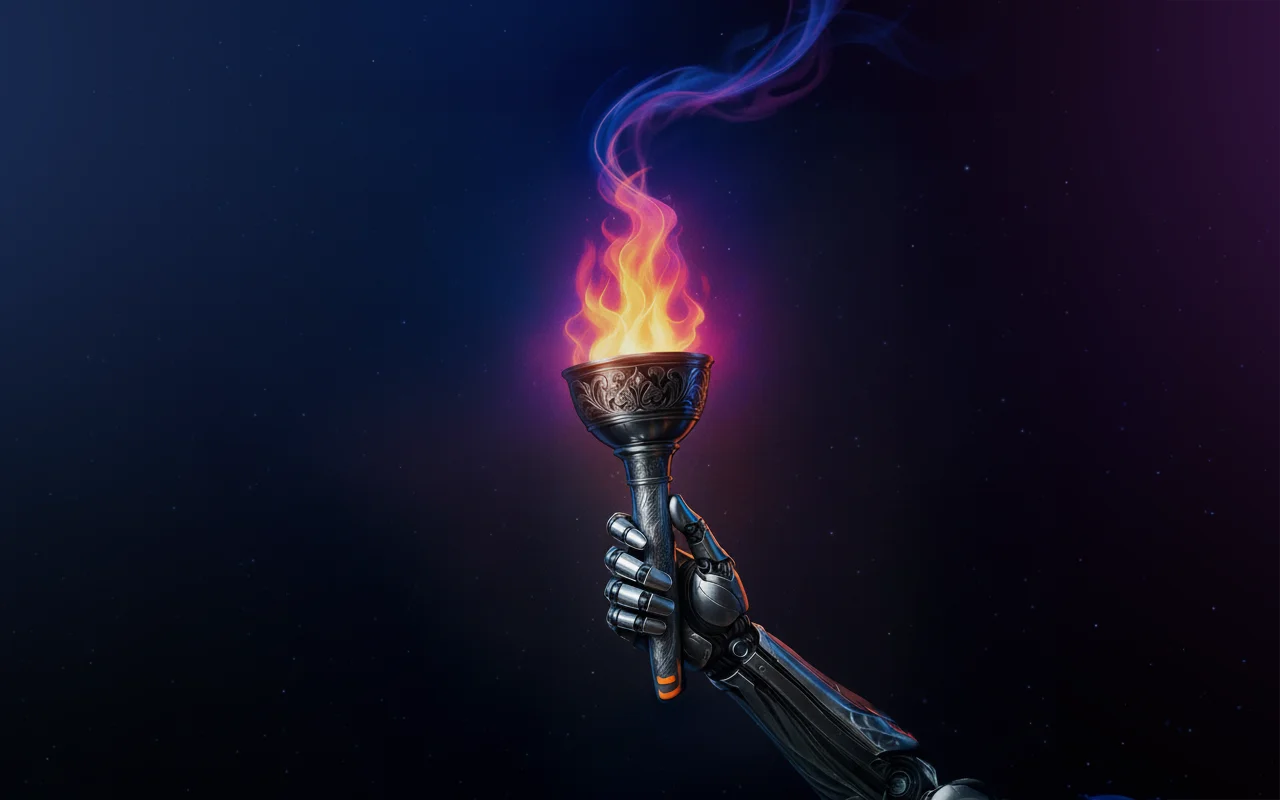
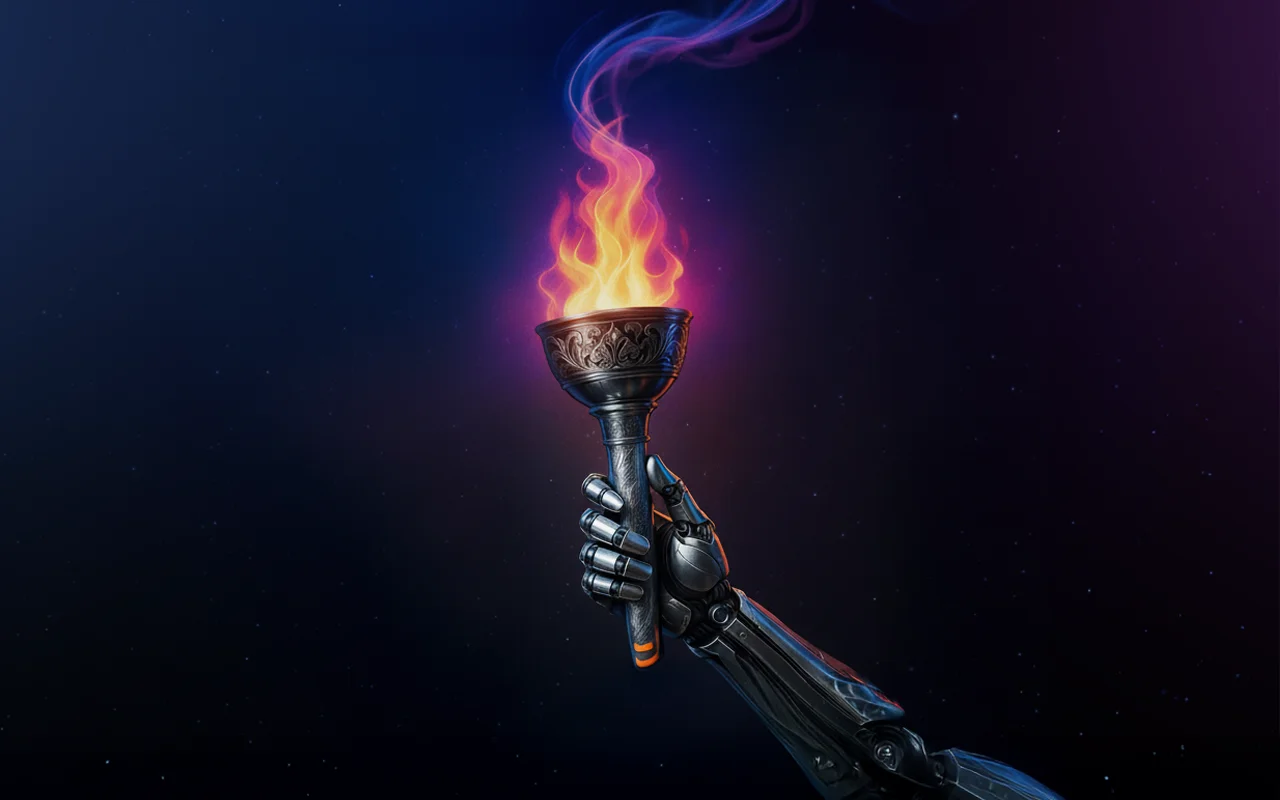
fix(ui): hero image pos; prevent '#' nav clicks
- Adjust homepage hero image on large screens using Tailwind responsive classes and object position to avoid cropping and ensure correct layering\n- Prevent header menu navigation when items use placeholder href '#' on desktop; on mobile, also close the sheet and block default click; keep emitAboutReset/handleNavigate for real routes only\n- Update hero image asset and remove unused screenshots (logo-gap-1.png, logo-gap-2.png)\n\nQuality:\n- Verified TypeScript: tsc --noEmit passes\n- Lint checks pass

Changed region(s): [[0.375, 0.0, 0.875, 1.0]]

diff --git a/src/components/layout/header/header-menu.tsx b/src/components/layout/header/header-menu.tsx
@@ -80,7 +80,13 @@ export const DesktopMenu = ({ items }: { items: HeaderMenuItem[] }) => {
               >
                 <Link
                   href={item.href}
-                  onClick={() => emitAboutReset(item.href)}
+                  onClick={(e) => {
+                    if (item.href === "#") {
+                      e.preventDefault()
+                      return
+                    }
+                    emitAboutReset(item.href)
+                  }}
                   className="text-sm"
                 >
                   {item.label}
@@ -232,7 +238,14 @@ export const MobileMenu = ({
                     >
                       <Link
                         href={item.href}
-                        onClick={() => handleNavigate(item.href)}
+                        onClick={(e) => {
+                          if (item.href === "#") {
+                            e.preventDefault()
+                            setOpen(false)
+                            return
+                          }
+                          handleNavigate(item.href)
+                        }}
                       >
                         {item.label}
                       </Link>

diff --git a/src/app/page.tsx b/src/app/page.tsx
@@ -35,7 +35,7 @@ export default function HomePage() {
         alt="Background"
         width={1280}
         height={800}
-        className="hidden lg:block absolute top-0 left-0 w-full h-auto -z-10 object-cover"
+        className="hidden lg:block lg:absolute lg:left-0 lg:w-full lg:h-full lg:-z-10 lg:top-0 lg:object-cover lg:object-[50%_-80px]"
         priority
       />
 
